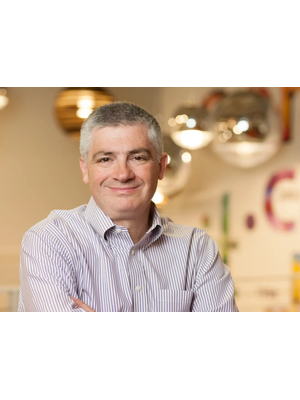
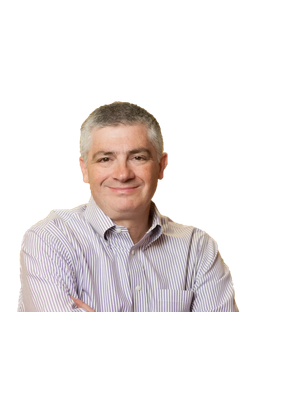
updated photo

diff --git a/JEFF_IMAGE_GUIDE.md b/JEFF_IMAGE_GUIDE.md
@@ -20,7 +20,7 @@ Once you have a Jeff Barr image:
 npm install sharp
 
 # Process your image
-node format-jeff-image.js path/to/your/jeff-image.jpg
+node format-jeff-image.js /home/pchinjr/Code/jb-spotter/jeff-barr.png
 ```
 
 This will create a `jeff-barr.png` file optimized for your app (300x400px, transparent background).
